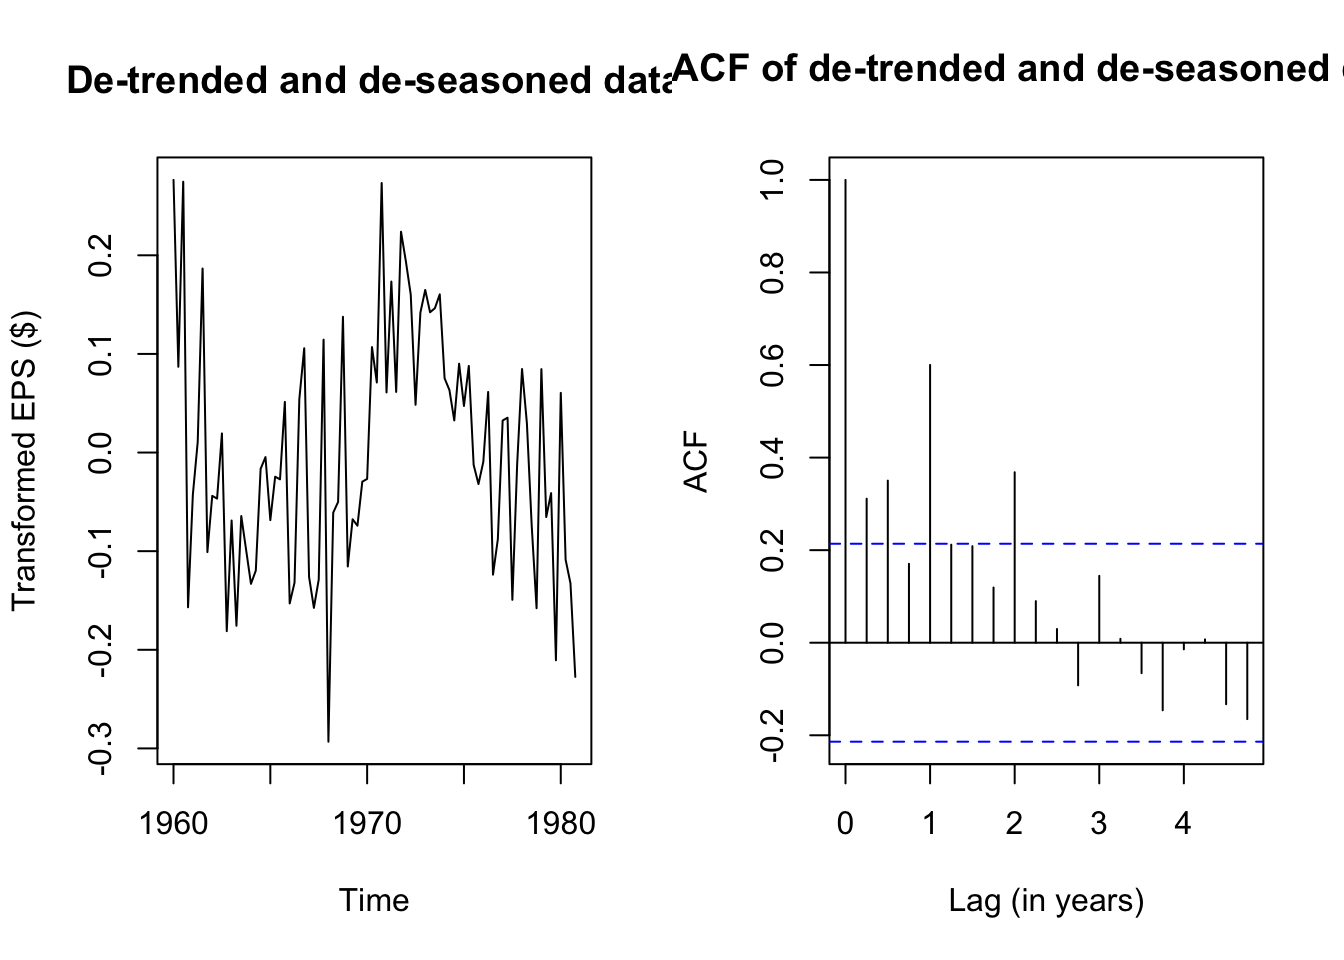
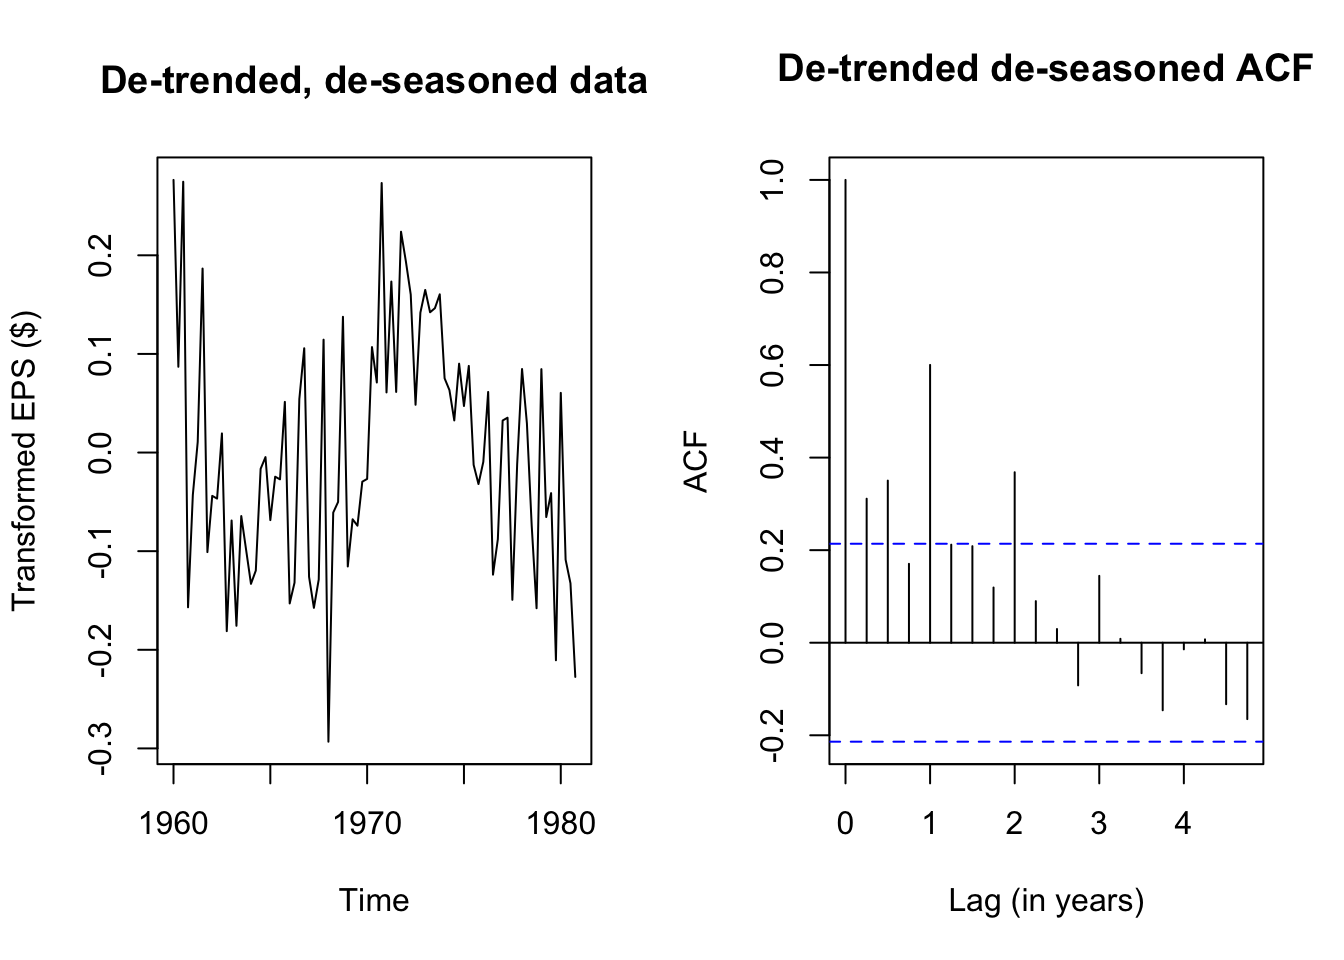
Built site for gh-pages

Changed region(s): [[0.0312, 0.0312, 1.0, 0.0938]]

diff --git a/codingbasicsinr.html b/codingbasicsinr.html
@@ -302,7 +302,7 @@ window.Quarto = {
 <tr class="odd">
 <td style="text-align: left;">stats</td>
 <td style="text-align: left;">window</td>
-<td style="text-align: left;">Extract the last time index</td>
+<td style="text-align: left;">Subset/downsample a time series</td>
 </tr>
 <tr class="even">
 <td style="text-align: left;">stats</td>
@@ -322,22 +322,27 @@ window.Quarto = {
 <tr class="odd">
 <td style="text-align: left;"><em>MASS</em></td>
 <td style="text-align: left;">boxcox</td>
-<td style="text-align: left;">Suggest Box-Cox parameters</td>
+<td style="text-align: left;">Suggest Box-Cox parameter lambda</td>
 </tr>
 <tr class="even">
+<td style="text-align: left;"><em>forecast</em></td>
+<td style="text-align: left;">BoxCox</td>
+<td style="text-align: left;">Transform data with known lambda</td>
+</tr>
+<tr class="odd">
 <td style="text-align: left;">stats</td>
 <td style="text-align: left;">acf</td>
 <td style="text-align: left;">Compute and plot autocorrelation</td>
 </tr>
-<tr class="odd">
+<tr class="even">
 <td style="text-align: left;">stats</td>
 <td style="text-align: left;">monthplot</td>
 <td style="text-align: left;">Plot annual change across seasons</td>
 </tr>
-<tr class="even">
+<tr class="odd">
 <td style="text-align: left;"><em>forecast</em></td>
 <td style="text-align: left;">seasonplot</td>
-<td style="text-align: left;">Plot annual change across seasons</td>
+<td style="text-align: left;">Plot seasonal change across years</td>
 </tr>
 </tbody>
 </table>
@@ -587,7 +592,7 @@ KPSS Trend = 0.25322, Truncation lag parameter = 3, p-value = 0.01</code></pre>
 <span id="cb43-2"><a href="#cb43-2" aria-hidden="true" tabindex="-1"></a>                         <span class="at">start=</span><span class="dv">1960</span>,<span class="at">frequency=</span><span class="dv">4</span>)</span>
 <span id="cb43-3"><a href="#cb43-3" aria-hidden="true" tabindex="-1"></a><span class="fu">par</span>(<span class="at">mfcol=</span><span class="fu">c</span>(<span class="dv">1</span>,<span class="dv">2</span>))</span>
 <span id="cb43-4"><a href="#cb43-4" aria-hidden="true" tabindex="-1"></a><span class="fu">plot</span>(eps_boxcox_detrend,<span class="at">main=</span><span class="st">'De-trended, transformed data'</span>,<span class="at">ylab=</span><span class="st">'Transformed EPS ($)'</span>)</span>
-<span id="cb43-5"><a href="#cb43-5" aria-hidden="true" tabindex="-1"></a><span class="fu">acf</span>(eps_boxcox_detrend,<span class="at">main=</span><span class="st">'ACF of de-trended, transformed data'</span>,<span class="at">xlab=</span><span class="st">'Lag (in years)'</span>)</span></code></pre></div><button title="Copy to Clipboard" class="code-copy-button"><i class="bi"></i></button></div>
+<span id="cb43-5"><a href="#cb43-5" aria-hidden="true" tabindex="-1"></a><span class="fu">acf</span>(eps_boxcox_detrend,<span class="at">main=</span><span class="st">'De-trended, transformed ACF'</span>,<span class="at">xlab=</span><span class="st">'Lag (in years)'</span>)</span></code></pre></div><button title="Copy to Clipboard" class="code-copy-button"><i class="bi"></i></button></div>
 <div class="cell-output-display">
 <div>
 <figure class="figure">
@@ -598,7 +603,8 @@ KPSS Trend = 0.25322, Truncation lag parameter = 3, p-value = 0.01</code></pre>
 </div>
 <p>The Box-Cox transformation and de-trending successfully removed a lot of the nonstationary behavior, but the remaining autocorrelation is highly <em>seasonal</em> — each transformed EPS observation is very similar to the EPS from four quarters ago (and thus eight, and twelve…). If we plot the quarterly earnings by year (or each year’s earnings by quarter), we can see this pattern more plainly, where Q3 usually brings very strong earnings for J&amp;J, while Q4 brings weaker earnings:</p>
 <div class="cell">
-<div class="code-copy-outer-scaffold"><div class="sourceCode cell-code" id="cb44"><pre class="sourceCode r code-with-copy"><code class="sourceCode r"><span id="cb44-1"><a href="#cb44-1" aria-hidden="true" tabindex="-1"></a><span class="fu">monthplot</span>(eps_boxcox_detrend,<span class="at">ylab=</span><span class="st">'Transformed EPS'</span>)</span></code></pre></div><button title="Copy to Clipboard" class="code-copy-button"><i class="bi"></i></button></div>
+<div class="code-copy-outer-scaffold"><div class="sourceCode cell-code" id="cb44"><pre class="sourceCode r code-with-copy"><code class="sourceCode r"><span id="cb44-1"><a href="#cb44-1" aria-hidden="true" tabindex="-1"></a><span class="fu">monthplot</span>(eps_boxcox_detrend,<span class="at">ylab=</span><span class="st">'Transformed EPS'</span>,</span>
+<span id="cb44-2"><a href="#cb44-2" aria-hidden="true" tabindex="-1"></a>          <span class="at">main=</span><span class="st">'Month plot: eps_boxcox_detrend'</span>)</span></code></pre></div><button title="Copy to Clipboard" class="code-copy-button"><i class="bi"></i></button></div>
 <div class="cell-output-display">
 <div>
 <figure class="figure">
@@ -646,9 +652,9 @@ KPSS Trend = 0.25394, Truncation lag parameter = 3, p-value = 0.01</code></pre>
 </div>
 <div class="code-copy-outer-scaffold"><div class="sourceCode cell-code" id="cb51"><pre class="sourceCode r code-with-copy"><code class="sourceCode r"><span id="cb51-1"><a href="#cb51-1" aria-hidden="true" tabindex="-1"></a><span class="fu">par</span>(<span class="at">mfrow=</span><span class="fu">c</span>(<span class="dv">1</span>,<span class="dv">2</span>))</span>
 <span id="cb51-2"><a href="#cb51-2" aria-hidden="true" tabindex="-1"></a><span class="fu">plot</span>(eps_boxcox_detrend_deseason,</span>
-<span id="cb51-3"><a href="#cb51-3" aria-hidden="true" tabindex="-1"></a>     <span class="at">main=</span><span class="st">'De-trended and de-seasoned data'</span>,<span class="at">ylab=</span><span class="st">'Transformed EPS ($)'</span>)</span>
+<span id="cb51-3"><a href="#cb51-3" aria-hidden="true" tabindex="-1"></a>     <span class="at">main=</span><span class="st">'De-trended, de-seasoned data'</span>,<span class="at">ylab=</span><span class="st">'Transformed EPS ($)'</span>)</span>
 <span id="cb51-4"><a href="#cb51-4" aria-hidden="true" tabindex="-1"></a><span class="fu">acf</span>(eps_boxcox_detrend_deseason,</span>
-<span id="cb51-5"><a href="#cb51-5" aria-hidden="true" tabindex="-1"></a>    <span class="at">main=</span><span class="st">'ACF of de-trended and de-seasoned data'</span>,<span class="at">xlab=</span><span class="st">'Lag (in years)'</span>)</span></code></pre></div><button title="Copy to Clipboard" class="code-copy-button"><i class="bi"></i></button></div>
+<span id="cb51-5"><a href="#cb51-5" aria-hidden="true" tabindex="-1"></a>    <span class="at">main=</span><span class="st">'De-trended de-seasoned ACF'</span>,<span class="at">xlab=</span><span class="st">'Lag (in years)'</span>)</span></code></pre></div><button title="Copy to Clipboard" class="code-copy-button"><i class="bi"></i></button></div>
 <div class="cell-output-display">
 <div>
 <figure class="figure">
